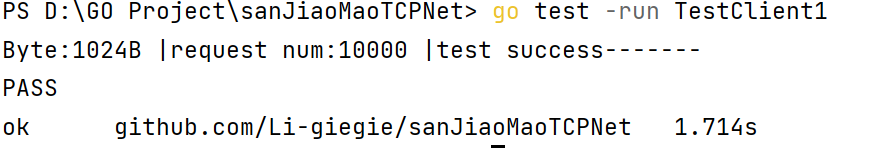
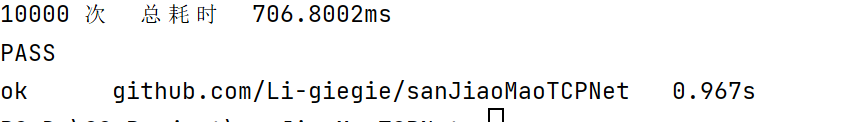
v 1.0.0

diff --git a/client.go b/client.go
@@ -8,6 +8,7 @@ import (
 	"log"
 	"math/rand"
 	"net"
+	"sync"
 	"time"
 )
 
@@ -35,6 +36,7 @@ type Client struct {
 	AutoId             int64
 	pushMessageHandler func(msg *Message.Message, res Message.ReplyMessageI)
 	isClose            bool
+	mutex              sync.RWMutex
 }
 
 func NewClient(raddr string, key string) ClientI {
@@ -84,7 +86,7 @@ func (c *Client) read() {
 	for {
 		msg, err := Message.UnPack(c.conn)
 		if err != nil {
-			log.Println("解包失败：", err)
+			log.Println("client read msg err：", err)
 			return
 		}
 		// 请求
@@ -102,12 +104,13 @@ func (c *Client) read() {
 		case 1:
 			// 请求后的回答
 			reply, ok := c.replyChan[msg.SrcApi]
+
 			if !ok {
-				fmt.Println("chanel :", reply)
 				log.Println("push message:", msg.String(), string(msg.Data))
 				continue
 			}
 			reply <- msg
+
 		default:
 			log.Println("未知消息类型")
 		}
@@ -141,7 +144,10 @@ func (c *Client) SendMessage(distKey, distApi string, stateCode int, data []byte
 		return nil, err
 	}
 	var reply = make(chan *Message.Message)
+
+	c.mutex.Lock()
 	c.replyChan[msg.SrcApi] = reply
+
 	_, err = c.conn.Write(buf)
 	if err != nil {
 		return nil, err
@@ -151,9 +157,11 @@ func (c *Client) SendMessage(distKey, distApi string, stateCode int, data []byte
 	case res := <-c.replyChan[msg.SrcApi]:
 		close(c.replyChan[msg.SrcApi])
 		delete(c.replyChan, msg.SrcApi)
+		c.mutex.Unlock()
 		return res, nil
 	case <-time.After(timeOut[0]):
 		close(c.replyChan[msg.SrcApi])
+		c.mutex.Unlock()
 		return nil, errors.New("timeOut")
 	}
 
@@ -192,8 +200,11 @@ func (c *Client) Run() {
 }
 
 func (c *Client) Close() {
+
 	if c.conn != nil {
 		c.conn.Close()
+		c.conn.CloseRead()
+		c.conn.CloseWrite()
 	}
 	c.isClose = true
 }

diff --git a/server.go b/server.go
@@ -1,7 +1,6 @@
 package sanJiaoMaoTCPNet
 
 import (
-	"fmt"
 	"github.com/Li-giegie/sanJiaoMaoTCPNet/Message"
 	"log"
 	"net"
@@ -127,7 +126,7 @@ func (s *Server) Read(conn *net.TCPConn) {
 		state: 1,
 	}
 
-	fmt.Println("认证一个:", s.conns, "key = ", msg.SrcKey)
+	//fmt.Println("认证一个:", s.conns, "key = ", msg.SrcKey)
 	for {
 		msg, err = Message.UnPack(conn)
 
@@ -135,6 +134,7 @@ func (s *Server) Read(conn *net.TCPConn) {
 			log.Println("解包失败：", err)
 			break
 		}
+
 		// 服务端处理API
 		if msg.DistKey == s.key {
 			reply.SetMsg(msg)
@@ -163,7 +163,7 @@ func (s *Server) Read(conn *net.TCPConn) {
 
 	}
 
-	s.CLoseConn(key)
+	s.CLoseConnect(key)
 }
 
 func (s *Server) SetAuthentication(authentication func(ip string, key string, data []byte) (bool, string)) {
@@ -176,22 +176,24 @@ func (s *Server) forward(conn *net.TCPConn, forwardConn *net.TCPConn, msg *Messa
 	if err != nil {
 		if err = Message.NewReplyMsg(msg, conn).String(202, "forward Pack err："+err.Error()); err != nil {
 			log.Println("NewReplyMsg forward err", err)
-			s.CLoseConn(msg.SrcKey)
+			s.CLoseConnect(msg.SrcKey)
 		}
 		return
 	}
 	_, err = forwardConn.Write(buf)
 	if err != nil {
 		if err = Message.NewReplyMsg(msg, conn).String(203, "forward err："+err.Error()); err != nil {
-			s.CLoseConn(msg.SrcKey)
+			s.CLoseConnect(msg.SrcKey)
 		}
 		log.Println("forward err:", err)
 	}
 }
 
-func (s *Server) CLoseConn(key string) {
+func (s *Server) CLoseConnect(key string) {
 	if s.conns[key].conn != nil {
 		s.conns[key].conn.Close()
+		s.conns[key].conn.CloseRead()
+		s.conns[key].conn.CloseWrite()
 	}
 
 	delete(s.conns, key)

diff --git a/client_test.go b/client_test.go
@@ -4,39 +4,45 @@ import (
 	"fmt"
 	"github.com/Li-giegie/sanJiaoMaoTCPNet/Message"
 	"log"
+	"sync"
 	"testing"
 	"time"
 )
 
-var i = 1
+var c ClientI
+
+var sy sync.WaitGroup
 
 func TestClient1(t *testing.T) {
-	c := NewClient("127.0.0.1:9999", "client1")
+
+	n := 10000
+	c = NewClient("127.0.0.1:9999", "client1")
 
 	err := c.Connect()
 	if err != nil {
-		log.Fatalln(err)
+		t.Error(err)
+		return
 	}
 
-	defer c.Close()
+	t1 := time.Now()
+	for i := 0; i < n; i++ {
+		sy.Add(1)
+		go func(j int) {
+			defer sy.Done()
+			var testBuf = make([]byte, 1024, 1024)
 
-	var testBuf = make([]byte, 1024, 1024)
+			res, err := c.SendMessage("client2", "test", 200, testBuf, time.Second*2)
+			if err != nil {
+				t.Error("client sendMessage err:", err, res)
+			}
 
-	for i := 0; i < 10000; i++ {
-		res, err := c.SendMessage("client2", "test", 200, testBuf, time.Second*2)
-
-		if err != nil {
-			fmt.Println(i, err, string(res.Data))
-			continue
-		}
-		if i != 9999 {
-			continue
-		}
-		fmt.Println(res.String(), string(res.Data))
+			if j%n/10 == 0 {
+				log.Println(res, string(res.Data))
+			}
+		}(i)
 	}
-
-	//c.Run()
-	fmt.Println("Byte:1024B |request num:10000 |test success-------")
+	sy.Wait()
+	fmt.Println(n, "次 ", "总耗时 ", time.Since(t1))
 }
 
 func TestClient2(t *testing.T) {

diff --git a/server_test.go b/server_test.go
@@ -1,7 +1,6 @@
 package sanJiaoMaoTCPNet
 
 import (
-	"fmt"
 	"github.com/Li-giegie/sanJiaoMaoTCPNet/Message"
 	"log"
 	"testing"
@@ -14,10 +13,10 @@ func TestServer(t *testing.T) {
 		log.Fatalln("err:", err)
 	}
 	srv.SetAuthentication(func(ip string, key string, data []byte) (bool, string) {
-		return true, "测试拒绝认证"
+		return true, "success"
 	})
 	srv.AddHandleFunc("test", func(msg *Message.Message, reply Message.ReplyMessageI) {
-		fmt.Println("test----", msg.String(), string(msg.Data))
+		//fmt.Println("test----", msg.String(), string(msg.Data))
 		reply.String(200, "server 收到")
 	})
 

diff --git a/README.md b/README.md
@@ -26,14 +26,17 @@
 
 ### 三、测试数据
 
-    1.测试环境  Windows 12 笔记本电脑 显卡 1650 内存 13.9
-
-![img_2.png](img_2.png)
+    1.测试环境  
+    Windows 12 
+    笔记本电脑 
+    显卡 1650 内存 13.9
+    处理器	AMD Ryzen 5 5600H with Radeon Graphics            3.30 GHz
+    机带 RAM	16.0 GB (13.9 GB 可用)
+    系统类型	64 位操作系统, 基于 x64 的处理器
+    笔和触控	没有可用于此显示器的笔或触控输入
 
     2.客户端请求服务端 本地环境 1024Byte 10000次请求 耗时3.431s
 
-![img.png](img.png)
-
-    3.客户端请求服务器转发 本地环境 1024Byte 10000次请求 耗时1.1714s
-
 ![img_1.png](img_1.png)
+    3.客户端请求服务器转发 本地环境 1024Byte 10000次请求 耗时1.1714s
+![img_2.png](img_2.png)
